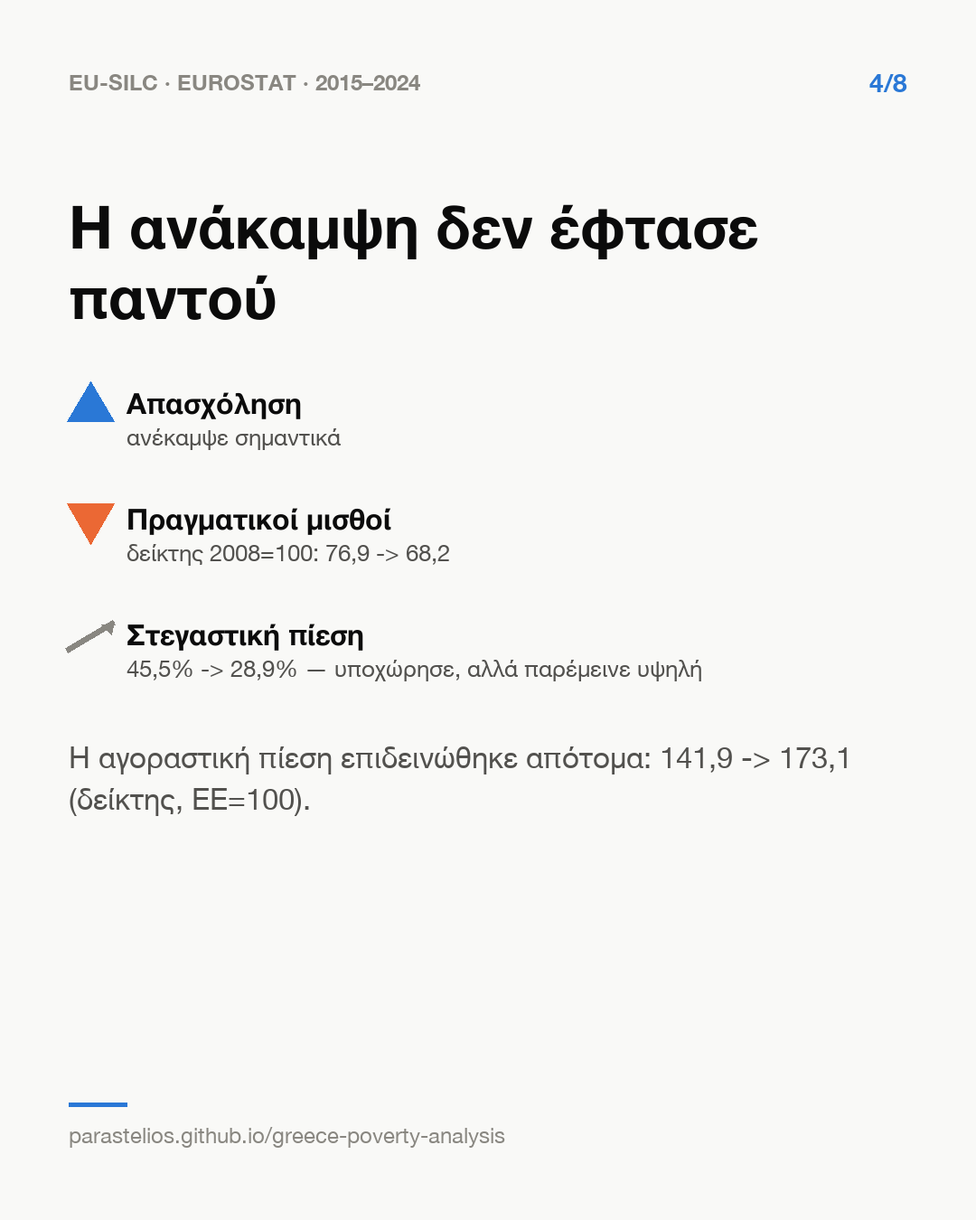
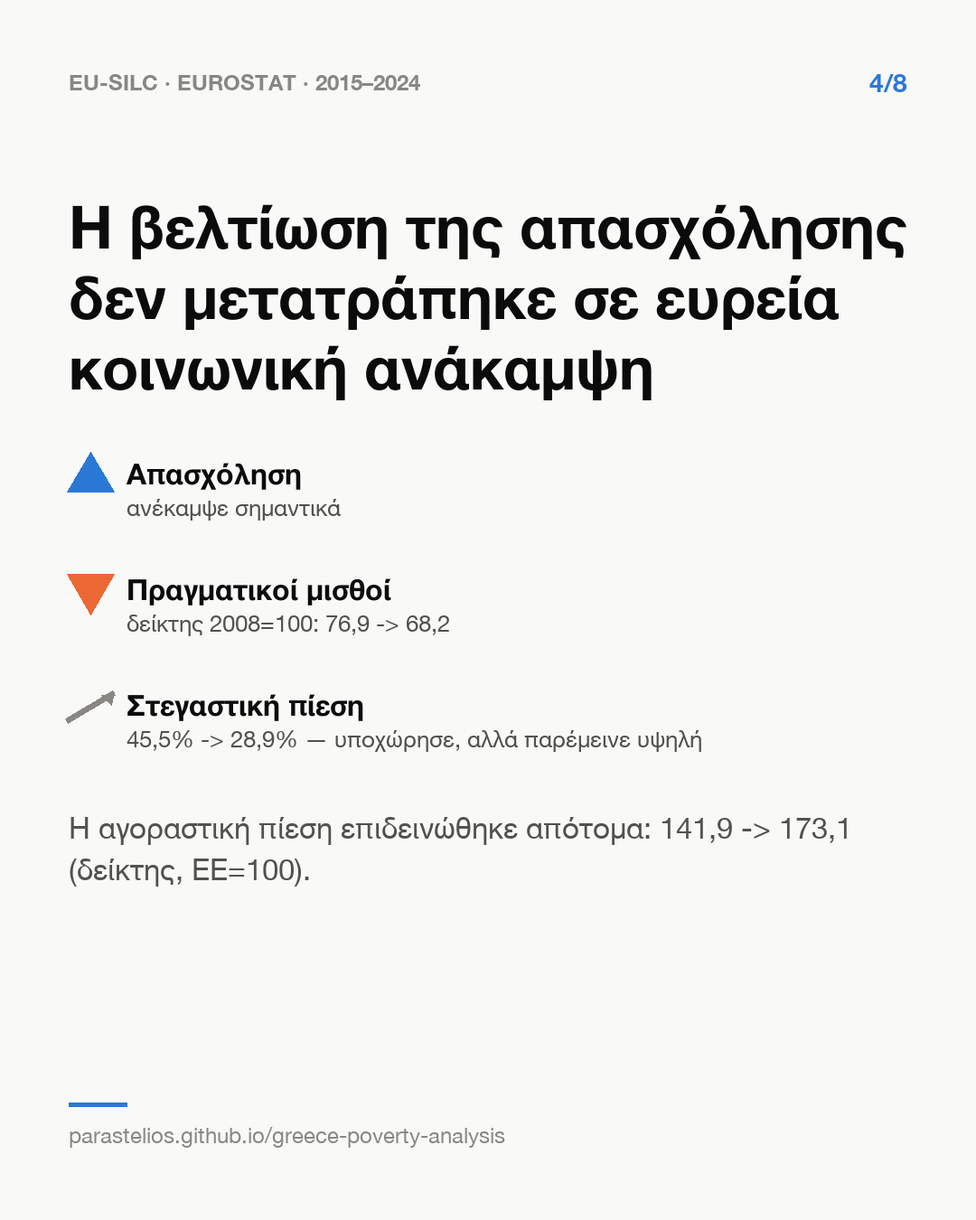
Sharpen the narrative's central claim: indicators recovered, society didn't
Recovery and conclusion chapters (EN+EL) now lead with the direct claim
instead of the weaker "recovery was real but limited" framing, which
conceded the public recovery narrative the piece is testing. The
conclusion also names the political point directly: indicators cannot
certify recovery while household experience that disagrees gets waved
off as psychology.

Also tightens how the unexplained residual is described, so it stops
reading as a default attribution to pessimism: the tested factors
explain much of the picture but not all of it, and the untested factors
(institutional trust, adjustment policy, tax burden, wealth
distribution, migration, health access) are named as plausible, not
established, parts of the explanation. Carried through to carousel
cards 4, 7 and 8 (new PNGs + titles.json) and their landing-page alt
text.

diff --git a/output/narrative_el.html b/output/narrative_el.html
@@ -993,9 +993,8 @@ class="fig-jump" href="#recovery-table">ο συνοδευτικός πίνακα
 7, η μακροχρόνια ανεργία, η πραγματική κατανάλωση και η <em class="term" tabindex="0" data-def="Πόσο έχουν ανέβει οι τιμές σε σχέση με τους μισθούς, δηλαδή πόση αγοραστική δύναμη έχασαν στην πράξη τα νοικοκυριά."><strong>αγοραστική πίεση</strong></em> τοποθετούν την Ελλάδα στη δυσμενή πλευρά της διάμεσης χώρας της ΕΕ. Είναι
 επίσης οι τρεις τρέχουσες συνθήκες που προσθέτουν στατιστικά πληροφορία
 πέρα από τον επίσημο δείκτη εισοδηματικής φτώχειας. Το συμπέρασμα, όμως,
-είναι απλούστερο από το μοντέλο: <strong><em>η ανάκαμψη που βιώνουν τα
-νοικοκυριά είναι ασθενέστερη από την ανάκαμψη που αποτυπώνουν οι μεγάλοι
-μακροοικονομικοί δείκτες.</em></strong></p>
+είναι απλούστερο από το μοντέλο: <strong><em>ορισμένοι δείκτες
+ανέκαμψαν· το νοικοκυριό δεν ανέκαμψε μαζί τους.</em></strong></p>
 
 <p>Μια χώρα μπορεί να βρίσκεται υπό αγοραστική πίεση επειδή είναι ακριβή ή
 επειδή πληρώνει χαμηλούς μισθούς. Στην Ελλάδα τα δύο προβλήματα
@@ -1505,10 +1504,10 @@ Eurostat. Μια διαφορετική ευρωπαϊκή έρευνα δείχ
 2008. Η σημερινή κατάσταση από μόνη της δεν αρκεί για να εξηγήσει τη
 δυσκολία· μετράει και το τι πέρασε η κοινωνία στον δρόμο ως εδώ.</p>
 
-<p>Αυτό που ανέκαμψε, επομένως, είναι στενότερο από όσο υπονοεί συχνά η
-λέξη «ανάκαμψη». Η απασχόληση βελτιώθηκε ουσιαστικά και η πίεση στη
-στέγαση υποχώρησε από τα ακραία επίπεδά της. Το κατά κεφαλήν ΑΕΠ, όμως,
-δεν επέστρεψε στο επίπεδο του 2008, οι πραγματικοί μισθοί παρέμειναν πολύ
+<p>Ορισμένοι βασικοί δείκτες ανέκαμψαν. Η ελληνική κοινωνία δεν ανέκαμψε
+μαζί τους. Η απασχόληση βελτιώθηκε ουσιαστικά και η πίεση στη στέγαση
+υποχώρησε από τα ακραία επίπεδά της. Το κατά κεφαλήν ΑΕΠ, όμως, δεν
+επέστρεψε στο επίπεδο του 2008, οι πραγματικοί μισθοί παρέμειναν πολύ
 χαμηλότερα και σε κρίσιμα μέτρα υλικών πόρων και αγοραστικής δύναμης η
 Ελλάδα εξακολουθεί να υστερεί σημαντικά από τη διάμεση χώρα της ΕΕ.</p>
 
@@ -1516,13 +1515,14 @@ Eurostat. Μια διαφορετική ευρωπαϊκή έρευνα δείχ
 απάντησης. Μπορούμε όμως να αποκλείσουμε την εύκολη εκδοχή του
 επιχειρήματος: ότι η δηλωμένη οικονομική δυσκολία δεν έχει υλικό υπόβαθρο.
 Οι απαντήσεις των νοικοκυριών συμβαδίζουν με συγκεκριμένες υλικές στερήσεις
-και εντάσσονται σε ένα ευρύτερο μοτίβο οικονομικού μειονεκτήματος. Αυτό δεν
-σημαίνει ότι
-έχουμε εξηγήσει πλήρως το χάσμα των 52,6 ποσοστιαίων μονάδων. Κανένας από
-τους ανεξάρτητα μετρημένους μηχανισμούς που εξετάστηκαν δεν μπορεί, μόνος
-του και με σταθερό τρόπο, να εξηγήσει ολόκληρο το μέγεθός του. Παραμένουν
-παράγοντες και διαδρομές για τους οποίους τα διαθέσιμα δεδομένα δεν δίνουν
-ακόμη πλήρη εικόνα.</p>
+και εντάσσονται σε ένα ευρύτερο μοτίβο οικονομικού μειονεκτήματος. Οι
+παράγοντες που μπορέσαμε να ελέγξουμε μας βοηθούν να κατανοήσουμε ένα
+μεγάλο μέρος της εικόνας, όχι όμως ολόκληρο το χάσμα των 52,6 ποσοστιαίων
+μονάδων. Το μέρος που παραμένει ανεξήγητο από τα διαθέσιμα μοντέλα δεν
+αποτελεί απόδειξη ελληνικής απαισιοδοξίας. Θεσμική εμπιστοσύνη, πολιτικές
+προσαρμογής, φορολογική επιβάρυνση, κατανομή πλούτου, μετανάστευση και
+πρόσβαση σε υπηρεσίες υγείας παραμένουν πιθανές πλευρές της εξήγησης,
+αλλά δεν τεκμηριώθηκαν εδώ ως αιτίες.</p>
 
 <p>Ο <em>AROP</em>, λοιπόν, δεν είναι λάθος. Μετρά
 ακριβώς αυτό για το οποίο σχεδιάστηκε: ποιος βρίσκεται κάτω από ένα όριο
@@ -1532,14 +1532,17 @@ Eurostat. Μια διαφορετική ευρωπαϊκή έρευνα δείχ
 της κρίσης. Για αυτό το δεύτερο ερώτημα, ο AROP από μόνος του δεν
 αρκεί.</p>
 
-<p>Ίσως, λοιπόν, το πρόβλημα δεν είναι ότι τα ελληνικά νοικοκυριά δεν
-αναγνώρισαν την ανάκαμψη. Είναι ότι η εικόνα της ανάκαμψης που κυριαρχεί
-στον δημόσιο λόγο στηρίζεται κυρίως σε δείκτες που δεν αποτυπώνονται στην
-καθημερινή οικονομική εμπειρία των νοικοκυριών, όπως στους μισθούς, στην
-αγοραστική δύναμη και, τελικά, στην οικονομική τους ασφάλεια. Αυτή η
-τελική σύνθεση είναι ερμηνεία των συγγραφέων και όχι νέο εμπειρικό
-αποτέλεσμα: προκύπτει άμεσα από όσα έδειξε η ανάλυση ότι χάνει ο AROP από
-μόνος του, όχι από κάποιον επιπλέον έλεγχο.</p>
+<p>Ίσως, λοιπόν, το πρόβλημα δεν είναι ότι τα ελληνικά νοικοκυριά απέτυχαν
+να αναγνωρίσουν την ανάκαμψη. Είναι ότι η δημόσια συζήτηση ονόμασε
+«ανάκαμψη» τη βελτίωση ορισμένων δεικτών, πριν αποκατασταθούν το βιοτικό
+επίπεδο, η αγοραστική δύναμη και η οικονομική ασφάλεια της κοινωνίας. Το
+πολιτικό σημείο που προκύπτει από αυτά τα ευρήματα είναι απλό: δεν
+μπορούμε να επικαλούμαστε τους δείκτες για να πιστοποιούμε την ανάκαμψη
+και, όταν η εμπειρία των νοικοκυριών διαφωνεί, να μεταφέρουμε αυτόματα
+την ευθύνη στην ψυχολογία και στις επιλογές τους. Αυτή η τελική σύνθεση
+είναι ερμηνεία των συγγραφέων και όχι νέο εμπειρικό αποτέλεσμα: προκύπτει
+άμεσα από όσα έδειξε η ανάλυση ότι χάνει ο AROP από μόνος του, όχι από
+κάποιον επιπλέον έλεγχο.</p>
 
 </div>
 </section>

diff --git a/site/el.html b/site/el.html
@@ -174,11 +174,11 @@ footer a{color:var(--text-secondary)}
         <li class="carousel-slide"><img src="assets/carousel/el-1.png" width="1080" height="1350" loading="lazy" alt="Το παράδοξο. Πραγματική δυσκολία ή ελληνική απαισιοδοξία; 2 στα 3 ελληνικά νοικοκυριά δηλώνουν οικονομική δυσκολία, η υψηλότερη τιμή στην ΕΕ. Ο επίσημος δείκτης φτώχειας καταγράφει περίπου 1 στους 5 ανθρώπους και κατατάσσει την Ελλάδα στην 7η υψηλότερη θέση από τις 27: σοβαρή, αλλά πολύ λιγότερο ακραία εικόνα."></li>
         <li class="carousel-slide"><img src="assets/carousel/el-2.png" width="1080" height="1350" loading="lazy" alt="Η δυσκολία έχει υλικό αποτύπωμα. Η δηλωμένη δυσκολία συμβαδίζει στενά με την αδυναμία κάλυψης ενός απρόοπτου εξόδου, την υλική στέρηση και την ανεπαρκή θέρμανση, με συσχετίσεις από 0,87 έως 0,94. Επειδή όλα μετρώνται στην ίδια έρευνα, αυτό αποτελεί ισχυρή ένδειξη, όχι ανεξάρτητη απόδειξη."></li>
         <li class="carousel-slide"><img src="assets/carousel/el-3.png" width="1080" height="1350" loading="lazy" alt="Ένα μετακινούμενο όριο. Το ευρύτερο μέτρο της ΕΕ, ο AROPE, κλείνει κατά μέσο όρο μόνο το 19% του χάσματος. Το όριο φτώχειας επανυπολογίζεται κάθε χρόνο στο 60% του διάμεσου εθνικού εισοδήματος. Όταν πέφτουν τα εισοδήματα, πέφτει και ο πήχης, χωρίς να ακολουθεί το κόστος ζωής."></li>
-        <li class="carousel-slide"><img src="assets/carousel/el-4.png" width="1080" height="1350" loading="lazy" alt="Η ανάκαμψη δεν έφτασε παντού. Η απασχόληση ανέκαμψε σημαντικά και η στεγαστική πίεση υποχώρησε, αλλά παρέμεινε υψηλή. Οι πραγματικοί μισθοί εξακολουθούν να βρίσκονται κάτω από το επίπεδο του 2008, ενώ η αγοραστική πίεση επιδεινώθηκε απότομα."></li>
+        <li class="carousel-slide"><img src="assets/carousel/el-4.png" width="1080" height="1350" loading="lazy" alt="Η βελτίωση της απασχόλησης δεν μετατράπηκε σε ευρεία κοινωνική ανάκαμψη. Η απασχόληση ανέκαμψε σημαντικά και η στεγαστική πίεση υποχώρησε, αλλά παρέμεινε υψηλή. Οι πραγματικοί μισθοί εξακολουθούν να βρίσκονται κάτω από το επίπεδο του 2008, ενώ η αγοραστική πίεση επιδεινώθηκε απότομα."></li>
         <li class="carousel-slide"><img src="assets/carousel/el-5.png" width="1080" height="1350" loading="lazy" alt="Το συσσωρευμένο βάρος. Στις χώρες της ΕΕ, η συσσωρευμένη ανεργία, τα χρόνια μισθολογικής μη ανάκαμψης και η επιδείνωση του κόστους στέγασης προσθέτουν πληροφορία για τη σημερινή δυσκολία πέρα από τις τρέχουσες συνθήκες. Πρόκειται για συσχετίσεις μεταξύ χωρών, όχι για απόδειξη αιτίας."></li>
         <li class="carousel-slide"><img src="assets/carousel/el-6.png" width="1080" height="1350" loading="lazy" alt="Πόσο εξαρτάται από το μοντέλο. Μία εύλογη επιλογή στο μοντέλο αλλάζει πλήρως την εικόνα: η Ελλάδα μετακινείται από την 3η στην 25η θέση μεταξύ 27 χωρών ως προς το ανεξήγητο υπόλοιπο. Το αποτέλεσμα εξαρτάται έντονα από το τι περιλαμβάνει το μοντέλο."></li>
-        <li class="carousel-slide"><img src="assets/carousel/el-7.png" width="1080" height="1350" loading="lazy" alt="Τι μένει ακόμη ανοιχτό. Ένας γενικότερα πιο αρνητικός τρόπος απάντησης δεν μπορεί να αποκλειστεί πλήρως. Παράγοντες όπως η εμπιστοσύνη, οι πολιτικές προσαρμογής, η μετανάστευση, η φορολογία, ο πλούτος και η υγεία επίσης δεν τεκμηριώθηκαν εδώ ως εξηγήσεις. Παραμένουν ανοιχτά ερωτήματα."></li>
-        <li class="carousel-slide"><img src="assets/carousel/el-8.png" width="1080" height="1350" loading="lazy" alt="Η δυσκολία δεν είναι άρνηση της ανάκαμψης. 52,6 ποσοστιαίες μονάδες μέσο χάσμα, σε μεγάλο βαθμό ανεξήγητο. Έχει υλικό υπόβαθρο και κουβαλά χρόνια συσσωρευμένης φθοράς. Η βελτίωση των βασικών δεικτών δεν έφερε αντίστοιχη ανακούφιση στα νοικοκυριά. Ανεξήγητο δεν σημαίνει μη πραγματικό."></li>
+        <li class="carousel-slide"><img src="assets/carousel/el-7.png" width="1080" height="1350" loading="lazy" alt="Τι μένει ακόμη ανοιχτό. Οι παράγοντες που μπορέσαμε να ελέγξουμε βοηθούν να καταλάβουμε μεγάλο μέρος της εικόνας, όχι όμως όλη. Ένας πιο αρνητικός τρόπος απάντησης δεν αποκλείεται πλήρως, αλλά δεν τεκμηριώνεται ως η εξήγηση. Θεσμική εμπιστοσύνη, πολιτικές προσαρμογής, φορολογία, πλούτος, μετανάστευση, υγεία: πιθανές πλευρές της εξήγησης, όχι αποδεδειγμένες αιτίες."></li>
+        <li class="carousel-slide"><img src="assets/carousel/el-8.png" width="1080" height="1350" loading="lazy" alt="Η βελτίωση των δεικτών δεν αναιρεί τη δυσκολία των νοικοκυριών. 52,6 ποσοστιαίες μονάδες μέσο χάσμα, δηλωμένη δυσκολία έναντι επίσημης φτώχειας. Μεγάλο μέρος του δεν εξηγείται από τους μηχανισμούς που μπορέσαμε να ελέγξουμε. Αυτό δεν το μετατρέπει σε απαισιοδοξία. Ανεξήγητο από το μοντέλο δεν σημαίνει μη πραγματικό."></li>
       </ul>
       <button class="car-arrow car-prev" type="button" aria-label="Προηγούμενη κάρτα" data-car="car-el" data-dir="-1">‹</button>
       <button class="car-arrow car-next" type="button" aria-label="Επόμενη κάρτα" data-car="car-el" data-dir="1">›</button>

diff --git a/site/index.html b/site/index.html
@@ -174,11 +174,11 @@ footer a{color:var(--text-secondary)}
         <li class="carousel-slide"><img src="assets/carousel/en-1.png" width="1080" height="1350" loading="lazy" alt="The paradox. Real hardship, or Greek pessimism? Two in three Greek households report financial hardship, the highest rate in the EU. The official poverty measure counts roughly one in five people and places Greece seventh-highest of 27: a serious, but far less exceptional, position."></li>
         <li class="carousel-slide"><img src="assets/carousel/en-2.png" width="1080" height="1350" loading="lazy" alt="Hardship has a material footprint. Reported hardship closely tracks an inability to cover an unexpected expense, material deprivation and inadequate heating, with correlations from 0.87 to 0.94. Because all are measured in the same survey, this is strong corroboration, not independent proof."></li>
         <li class="carousel-slide"><img src="assets/carousel/en-3.png" width="1080" height="1350" loading="lazy" alt="A moving line. The EU's broader measure, AROPE, closes only 19% of the gap on average. The poverty line is recalculated each year at 60% of national median income. When incomes fall, the line falls with them, without tracking the cost of living."></li>
-        <li class="carousel-slide"><img src="assets/carousel/en-4.png" width="1080" height="1350" loading="lazy" alt="The recovery did not reach everywhere. Employment recovered substantially and housing pressure eased, though it remained high. Real wages are still below their 2008 level, while purchasing pressure has worsened sharply."></li>
+        <li class="carousel-slide"><img src="assets/carousel/en-4.png" width="1080" height="1350" loading="lazy" alt="Employment improved. That did not translate into broad social recovery. Employment recovered substantially and housing pressure eased, though it remained high. Real wages are still below their 2008 level, while purchasing pressure has worsened sharply."></li>
         <li class="carousel-slide"><img src="assets/carousel/en-5.png" width="1080" height="1350" loading="lazy" alt="The accumulated weight. Across EU countries, accumulated unemployment, years of wage non-recovery and housing-cost deterioration add information about present hardship beyond current conditions. These are cross-country associations, not proof of causation."></li>
         <li class="carousel-slide"><img src="assets/carousel/en-6.png" width="1080" height="1350" loading="lazy" alt="How much depends on the model. One defensible modelling choice changes the picture completely: Greece moves from 3rd to 25th among 27 countries in the ranking of the unexplained remainder. The result depends heavily on what the model includes."></li>
-        <li class="carousel-slide"><img src="assets/carousel/en-7.png" width="1080" height="1350" loading="lazy" alt="What remains open. A generally darker response style cannot be fully excluded. Factors such as trust, adjustment policies, migration, taxation, wealth and health were also not established here as explanations. They remain open questions."></li>
-        <li class="carousel-slide"><img src="assets/carousel/en-8.png" width="1080" height="1350" loading="lazy" alt="The hardship is not a denial of recovery. 52.6 percentage points average gap, largely unexplained. It has a material basis and carries years of accumulated wear. The improvement in headline indicators has not brought comparable relief to households. Unexplained does not mean unreal."></li>
+        <li class="carousel-slide"><img src="assets/carousel/en-7.png" width="1080" height="1350" loading="lazy" alt="What remains open. The factors we were able to test help explain much of the picture, not all of it. A more negative way of answering cannot be fully ruled out, but it is not established as the explanation. Institutional trust, adjustment policy, taxation, wealth, migration, health: plausible parts of the explanation, not proven causes."></li>
+        <li class="carousel-slide"><img src="assets/carousel/en-8.png" width="1080" height="1350" loading="lazy" alt="Improving indicators does not cancel out household hardship. 52.6 percentage points average gap, reported hardship vs. official poverty. Most of it is not explained by the mechanisms we were able to test. That does not make it pessimism. Unexplained by the model does not mean unreal."></li>
       </ul>
       <button class="car-arrow car-prev" type="button" aria-label="Previous card" data-car="car-en" data-dir="-1">‹</button>
       <button class="car-arrow car-next" type="button" aria-label="Next card" data-car="car-en" data-dir="1">›</button>

diff --git a/output/narrative.html b/output/narrative.html
@@ -935,8 +935,8 @@ today's levels, in <a class="fig-jump" href="#F10">Figure
 <em class="term" tabindex="0" data-def="How far prices have risen relative to wages -- how much purchasing power households have actually lost."><strong>wage-adjusted affordability</strong></em>
 each place Greece on the wrong side of the European middle. They are also
 the three current conditions that carry information beyond the official
-poverty rate. But the point here is simpler: household recovery
-looks weaker than headline recovery.</p>
+poverty rate. But the point here is simpler: <strong><em>some indicators
+recovered; the household did not recover with them.</em></strong></p>
 
 <p>A country can score badly on affordability two ways: by being expensive,
 or by paying poorly. Greece does both at once, and a household experiencing
@@ -1388,28 +1388,41 @@ housing-cost deterioration, second on consecutive years of wages below
 their 2008 level. Today's conditions alone are not enough to explain the
 hardship; what the country went through to get here matters too.</p>
 
-<p>What recovered was narrower than the word &ldquo;recovery&rdquo;
-suggests. Employment improved substantially, and housing pressure eased. But
-GDP per person never returned to its 2008 level, real wages remained far
-below it, and purchasing power fell further behind the European median. A
-generally more negative way of answering cannot be fully ruled out. What
+<p>Some headline indicators recovered. Greek society did not recover with
+them. Employment improved substantially, and housing pressure eased from its
+most extreme levels. But GDP per person never returned to its 2008 level,
+real wages remained far below it, and on the material-resources and
+purchasing-power measures that matter most, Greece still lags well behind
+the European median.</p>
+
+<p>A generally more negative way of answering cannot be fully ruled out. What
 can be ruled out is the easy version of that argument: that reported
 hardship has no material basis. It moves with concrete material
-difficulties and appears across a much wider range of indicators.</p>
+difficulties and fits a wider pattern of economic disadvantage. The factors
+we were able to test help explain much of the picture, but not the whole of
+the 52.6-point gap. The part that remains unexplained by the available
+models is not evidence of Greek pessimism. Institutional trust, adjustment
+policy, tax burden, wealth distribution, migration and access to healthcare
+remain plausible parts of the explanation, but were not established here as
+causes.</p>
 
-<p>The 52.6-point gap remains largely unexplained. That does not make it any
-less real. It means that none of the independently measured mechanisms
-tested here can, robustly and on its own, account for its size. The official
-poverty rate is not wrong: it measures who falls below a threshold set
-relative to today&rsquo;s national median income. But on its own, it cannot
-tell us whether Greek
-households have regained the economic security they had before the crisis.
-Perhaps, then, the problem is not that Greek households failed to recognize
-the recovery. It is that the public story treated the recovery as complete
-before it had fully reached them. This closing synthesis is author
-interpretation rather than a new empirical result: it follows directly from
-what the analysis showed AROP alone misses, not from an additional test
-that itself produced this finding.</p>
+<p><em>AROP</em> is not wrong: it measures exactly what it was designed to
+measure, who falls below a threshold set relative to today&rsquo;s national
+median income. That is a different question from whether Greek households
+have regained the living standards and economic security they lost during
+the crisis. For that second question, <em>AROP</em> on its own is not
+enough.</p>
+
+<p>Perhaps, then, the problem is not that Greek households failed to
+recognize the recovery. It is that public discourse named &ldquo;recovery&rdquo;
+the improvement of certain indicators, before living standards, purchasing
+power and the economic security of society had been restored. The political
+point that follows is a simple one: indicators cannot be used to certify
+recovery while, when household experience disagrees, the blame is
+automatically shifted onto households&rsquo; psychology and choices. This
+closing synthesis is author interpretation rather than a new empirical
+result: it follows directly from what the analysis showed AROP alone
+misses, not from an additional test that itself produced this finding.</p>
 
 </div>
 </section>

diff --git a/scripts/92_build_narrative_el.py b/scripts/92_build_narrative_el.py
@@ -952,9 +952,8 @@ class="fig-jump" href="#recovery-table">ο συνοδευτικός πίνακα
 πίεση</em> τοποθετούν την Ελλάδα στη δυσμενή πλευρά της διάμεσης χώρας της ΕΕ. Είναι
 επίσης οι τρεις τρέχουσες συνθήκες που προσθέτουν στατιστικά πληροφορία
 πέρα από τον επίσημο δείκτη εισοδηματικής φτώχειας. Το συμπέρασμα, όμως,
-είναι απλούστερο από το μοντέλο: <strong><em>η ανάκαμψη που βιώνουν τα
-νοικοκυριά είναι ασθενέστερη από την ανάκαμψη που αποτυπώνουν οι μεγάλοι
-μακροοικονομικοί δείκτες.</em></strong></p>
+είναι απλούστερο από το μοντέλο: <strong><em>ορισμένοι δείκτες
+ανέκαμψαν· το νοικοκυριό δεν ανέκαμψε μαζί τους.</em></strong></p>
 
 <p>Μια χώρα μπορεί να βρίσκεται υπό αγοραστική πίεση επειδή είναι ακριβή ή
 επειδή πληρώνει χαμηλούς μισθούς. Στην Ελλάδα τα δύο προβλήματα
@@ -1606,10 +1605,10 @@ CH.append(chapter("conclusion", "Τι σημαίνουν όλα αυτά", f"""
 2008. Η σημερινή κατάσταση από μόνη της δεν αρκεί για να εξηγήσει τη
 δυσκολία· μετράει και το τι πέρασε η κοινωνία στον δρόμο ως εδώ.</p>
 
-<p>Αυτό που ανέκαμψε, επομένως, είναι στενότερο από όσο υπονοεί συχνά η
-λέξη «ανάκαμψη». Η απασχόληση βελτιώθηκε ουσιαστικά και η πίεση στη
-στέγαση υποχώρησε από τα ακραία επίπεδά της. Το κατά κεφαλήν ΑΕΠ, όμως,
-δεν επέστρεψε στο επίπεδο του 2008, οι πραγματικοί μισθοί παρέμειναν πολύ
+<p>Ορισμένοι βασικοί δείκτες ανέκαμψαν. Η ελληνική κοινωνία δεν ανέκαμψε
+μαζί τους. Η απασχόληση βελτιώθηκε ουσιαστικά και η πίεση στη στέγαση
+υποχώρησε από τα ακραία επίπεδά της. Το κατά κεφαλήν ΑΕΠ, όμως, δεν
+επέστρεψε στο επίπεδο του 2008, οι πραγματικοί μισθοί παρέμειναν πολύ
 χαμηλότερα και σε κρίσιμα μέτρα υλικών πόρων και αγοραστικής δύναμης η
 Ελλάδα εξακολουθεί να υστερεί σημαντικά από τη διάμεση χώρα της ΕΕ.</p>
 
@@ -1617,13 +1616,14 @@ CH.append(chapter("conclusion", "Τι σημαίνουν όλα αυτά", f"""
 απάντησης. Μπορούμε όμως να αποκλείσουμε την εύκολη εκδοχή του
 επιχειρήματος: ότι η δηλωμένη οικονομική δυσκολία δεν έχει υλικό υπόβαθρο.
 Οι απαντήσεις των νοικοκυριών συμβαδίζουν με συγκεκριμένες υλικές στερήσεις
-και εντάσσονται σε ένα ευρύτερο μοτίβο οικονομικού μειονεκτήματος. Αυτό δεν
-σημαίνει ότι
-έχουμε εξηγήσει πλήρως το χάσμα των 52,6 ποσοστιαίων μονάδων. Κανένας από
-τους ανεξάρτητα μετρημένους μηχανισμούς που εξετάστηκαν δεν μπορεί, μόνος
-του και με σταθερό τρόπο, να εξηγήσει ολόκληρο το μέγεθός του. Παραμένουν
-παράγοντες και διαδρομές για τους οποίους τα διαθέσιμα δεδομένα δεν δίνουν
-ακόμη πλήρη εικόνα.</p>
+και εντάσσονται σε ένα ευρύτερο μοτίβο οικονομικού μειονεκτήματος. Οι
+παράγοντες που μπορέσαμε να ελέγξουμε μας βοηθούν να κατανοήσουμε ένα
+μεγάλο μέρος της εικόνας, όχι όμως ολόκληρο το χάσμα των 52,6 ποσοστιαίων
+μονάδων. Το μέρος που παραμένει ανεξήγητο από τα διαθέσιμα μοντέλα δεν
+αποτελεί απόδειξη ελληνικής απαισιοδοξίας. Θεσμική εμπιστοσύνη, πολιτικές
+προσαρμογής, φορολογική επιβάρυνση, κατανομή πλούτου, μετανάστευση και
+πρόσβαση σε υπηρεσίες υγείας παραμένουν πιθανές πλευρές της εξήγησης,
+αλλά δεν τεκμηριώθηκαν εδώ ως αιτίες.</p>
 
 <p>Ο <em>AROP</em>, λοιπόν, δεν είναι λάθος. Μετρά
 ακριβώς αυτό για το οποίο σχεδιάστηκε: ποιος βρίσκεται κάτω από ένα όριο
@@ -1633,14 +1633,17 @@ CH.append(chapter("conclusion", "Τι σημαίνουν όλα αυτά", f"""
 της κρίσης. Για αυτό το δεύτερο ερώτημα, ο AROP από μόνος του δεν
 αρκεί.</p>
 
-<p>Ίσως, λοιπόν, το πρόβλημα δεν είναι ότι τα ελληνικά νοικοκυριά δεν
-αναγνώρισαν την ανάκαμψη. Είναι ότι η εικόνα της ανάκαμψης που κυριαρχεί
-στον δημόσιο λόγο στηρίζεται κυρίως σε δείκτες που δεν αποτυπώνονται στην
-καθημερινή οικονομική εμπειρία των νοικοκυριών, όπως στους μισθούς, στην
-αγοραστική δύναμη και, τελικά, στην οικονομική τους ασφάλεια. Αυτή η
-τελική σύνθεση είναι ερμηνεία των συγγραφέων και όχι νέο εμπειρικό
-αποτέλεσμα: προκύπτει άμεσα από όσα έδειξε η ανάλυση ότι χάνει ο AROP από
-μόνος του, όχι από κάποιον επιπλέον έλεγχο.</p>
+<p>Ίσως, λοιπόν, το πρόβλημα δεν είναι ότι τα ελληνικά νοικοκυριά απέτυχαν
+να αναγνωρίσουν την ανάκαμψη. Είναι ότι η δημόσια συζήτηση ονόμασε
+«ανάκαμψη» τη βελτίωση ορισμένων δεικτών, πριν αποκατασταθούν το βιοτικό
+επίπεδο, η αγοραστική δύναμη και η οικονομική ασφάλεια της κοινωνίας. Το
+πολιτικό σημείο που προκύπτει από αυτά τα ευρήματα είναι απλό: δεν
+μπορούμε να επικαλούμαστε τους δείκτες για να πιστοποιούμε την ανάκαμψη
+και, όταν η εμπειρία των νοικοκυριών διαφωνεί, να μεταφέρουμε αυτόματα
+την ευθύνη στην ψυχολογία και στις επιλογές τους. Αυτή η τελική σύνθεση
+είναι ερμηνεία των συγγραφέων και όχι νέο εμπειρικό αποτέλεσμα: προκύπτει
+άμεσα από όσα έδειξε η ανάλυση ότι χάνει ο AROP από μόνος του, όχι από
+κάποιον επιπλέον έλεγχο.</p>
 
 </div>
 """))

diff --git a/scripts/91_build_narrative.py b/scripts/91_build_narrative.py
@@ -695,8 +695,8 @@ today's levels, in <a class="fig-jump" href="#F10">Figure
 <em>wage-adjusted affordability</em>
 each place Greece on the wrong side of the European middle. They are also
 the three current conditions that carry information beyond the official
-poverty rate. But the point here is simpler: household recovery
-looks weaker than headline recovery.</p>
+poverty rate. But the point here is simpler: <strong><em>some indicators
+recovered; the household did not recover with them.</em></strong></p>
 
 <p>A country can score badly on affordability two ways: by being expensive,
 or by paying poorly. Greece does both at once, and a household experiencing
@@ -1145,28 +1145,41 @@ housing-cost deterioration, second on consecutive years of wages below
 their 2008 level. Today's conditions alone are not enough to explain the
 hardship; what the country went through to get here matters too.</p>
 
-<p>What recovered was narrower than the word &ldquo;recovery&rdquo;
-suggests. Employment improved substantially, and housing pressure eased. But
-GDP per person never returned to its 2008 level, real wages remained far
-below it, and purchasing power fell further behind the European median. A
-generally more negative way of answering cannot be fully ruled out. What
+<p>Some headline indicators recovered. Greek society did not recover with
+them. Employment improved substantially, and housing pressure eased from its
+most extreme levels. But GDP per person never returned to its 2008 level,
+real wages remained far below it, and on the material-resources and
+purchasing-power measures that matter most, Greece still lags well behind
+the European median.</p>
+
+<p>A generally more negative way of answering cannot be fully ruled out. What
 can be ruled out is the easy version of that argument: that reported
 hardship has no material basis. It moves with concrete material
-difficulties and appears across a much wider range of indicators.</p>
+difficulties and fits a wider pattern of economic disadvantage. The factors
+we were able to test help explain much of the picture, but not the whole of
+the 52.6-point gap. The part that remains unexplained by the available
+models is not evidence of Greek pessimism. Institutional trust, adjustment
+policy, tax burden, wealth distribution, migration and access to healthcare
+remain plausible parts of the explanation, but were not established here as
+causes.</p>
 
-<p>The 52.6-point gap remains largely unexplained. That does not make it any
-less real. It means that none of the independently measured mechanisms
-tested here can, robustly and on its own, account for its size. The official
-poverty rate is not wrong: it measures who falls below a threshold set
-relative to today&rsquo;s national median income. But on its own, it cannot
-tell us whether Greek
-households have regained the economic security they had before the crisis.
-Perhaps, then, the problem is not that Greek households failed to recognize
-the recovery. It is that the public story treated the recovery as complete
-before it had fully reached them. This closing synthesis is author
-interpretation rather than a new empirical result: it follows directly from
-what the analysis showed AROP alone misses, not from an additional test
-that itself produced this finding.</p>
+<p><em>AROP</em> is not wrong: it measures exactly what it was designed to
+measure, who falls below a threshold set relative to today&rsquo;s national
+median income. That is a different question from whether Greek households
+have regained the living standards and economic security they lost during
+the crisis. For that second question, <em>AROP</em> on its own is not
+enough.</p>
+
+<p>Perhaps, then, the problem is not that Greek households failed to
+recognize the recovery. It is that public discourse named &ldquo;recovery&rdquo;
+the improvement of certain indicators, before living standards, purchasing
+power and the economic security of society had been restored. The political
+point that follows is a simple one: indicators cannot be used to certify
+recovery while, when household experience disagrees, the blame is
+automatically shifted onto households&rsquo; psychology and choices. This
+closing synthesis is author interpretation rather than a new empirical
+result: it follows directly from what the analysis showed AROP alone
+misses, not from an additional test that itself produced this finding.</p>
 
 </div>
 """))
